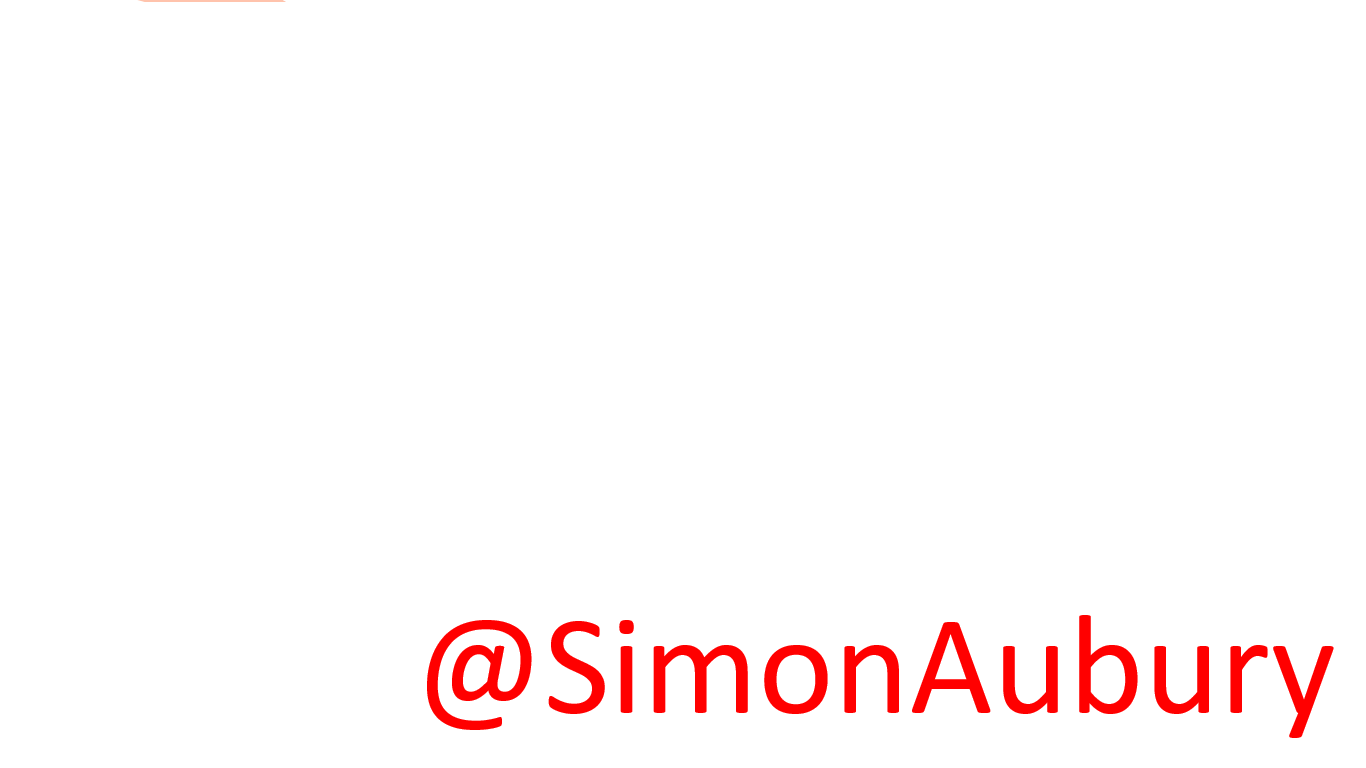
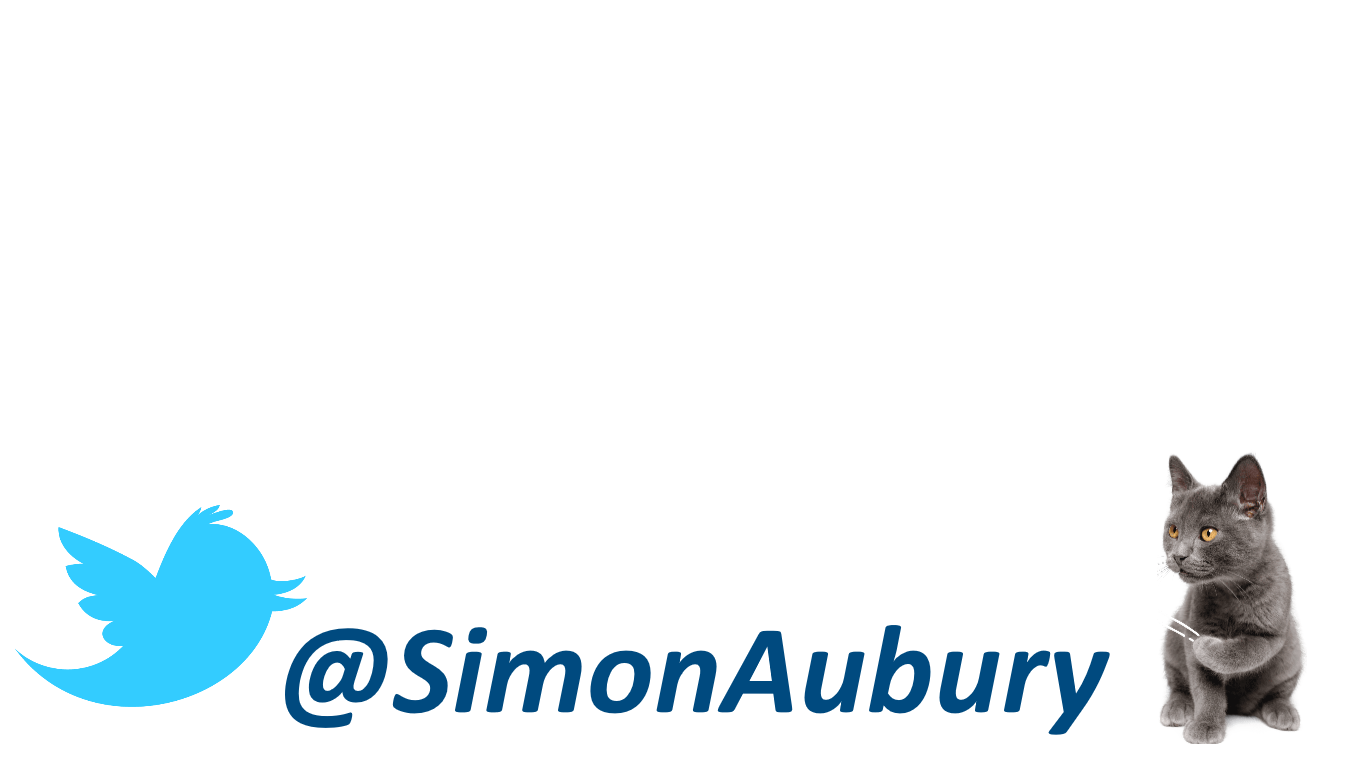
Create combined photo

Changed region(s): [[0.0, 0.5938, 0.9839, 0.9688]]

diff --git a/catimage.py b/catimage.py
@@ -1,4 +1,4 @@
-from PIL import Image
+from PIL import Image, ImageDraw, ImageFont
 import random
 
 
@@ -25,7 +25,7 @@ def apply_overlay(background_image, front_file, at_top, at_left):
     frontImage = frontImage.convert('RGBA')
 
     width, height = frontImage.size
-    target_width = 800
+    target_width = 600
     target_height = int(target_width * (height/width))
     frontImage = frontImage.resize((target_width, target_height))
 
@@ -48,7 +48,7 @@ def get_concat_h(im1, im2):
     dst.paste(im2, (im1.width, im1.height))
     return dst
 
-def create_image(side_image, top_image, final_image):
+def create_image(side_image, top_image, final_image, imgtext):
     thisImage = Image.open(side_image)
 
     # Convert image to RGBA
@@ -56,12 +56,15 @@ def create_image(side_image, top_image, final_image):
     thisImage = get_concat_h(thisImage, Image.open(top_image))
 
     thisImage = apply_overlay(thisImage, random.choice(overlays), True, False)
-    thisImage = apply_overlay(thisImage, random.choice(overlays), False, True)
-    thisImage = apply_overlay(thisImage, 'assets/fixedbanner.png', False, False)
+    # thisImage = apply_overlay(thisImage, random.choice(overlays), False, True)
+    thisImage = apply_overlay(thisImage, 'assets/fixedbanner.png', False, True)
+
+    d = ImageDraw.Draw(thisImage)
+    d.multiline_text((100,800), imgtext, font=ImageFont.truetype("/mnt/e/Windows/Fonts/tahoma.ttf", 90), fill=(255,255,255,255))
 
     # Save this image
-    thisImage.save(final_image, format='jpg')
+    thisImage.save(final_image, format='jpeg')
 
 
 if __name__ == '__main__':
-    create_image('photos/20210619_174034_a.jpg', 'photos/20210619_174034_b.jpg',  'testnew.jpg')
+    create_image('photos/20210620_082150_a.jpg', 'photos/20210620_082150_b.jpg',  'testnew.jpg', 'Just ate 18g of food\nover 90 seconds')

diff --git a/catfit.py b/catfit.py
@@ -11,6 +11,8 @@ from picamera import PiCamera
 from twython import Twython
 import random
 import os
+from catimage import create_image
+
 
 sys.path.insert(1, './hx711py')
 from hx711 import HX711
@@ -157,6 +159,7 @@ def do_update(event_date, cat_weight, food_weight):
             eating_duration_sec = (event_date-cat_entered_scale_date).total_seconds()
             eaten_amount = food_start_weight = food_weight
             do_print('Cat departed,  From:{} To:{} FoodStart:{:,.0f} FoodEnd:{:,.0f} Duration:{} cat_weight_avg:{:,.0f} Seconds:{} Eaten:{}'.format(cat_entered_scale_date, event_date, food_start_weight, food_weight, event_date-cat_entered_scale_date, cat_weight_avg, eating_duration_sec, eaten_amount))
+            create_image('{}_a.jpg'.format(image_base_file), '{}_b.jpg'.format(image_base_file),  '{}_t.jpg'.format(image_base_file), 'Just ate {}g of food\nover {} seconds'.format(eating_duration_sec, eaten_amount))
 
         
 
